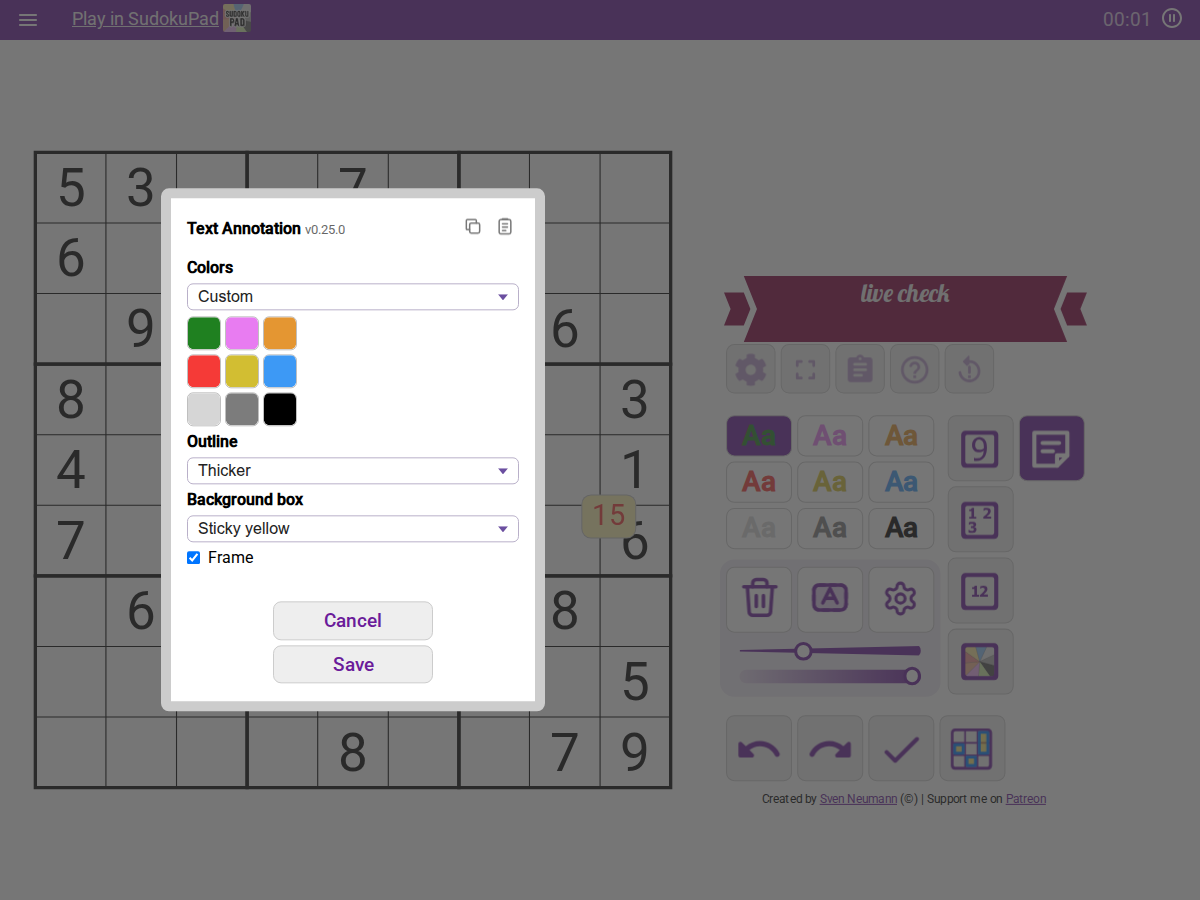
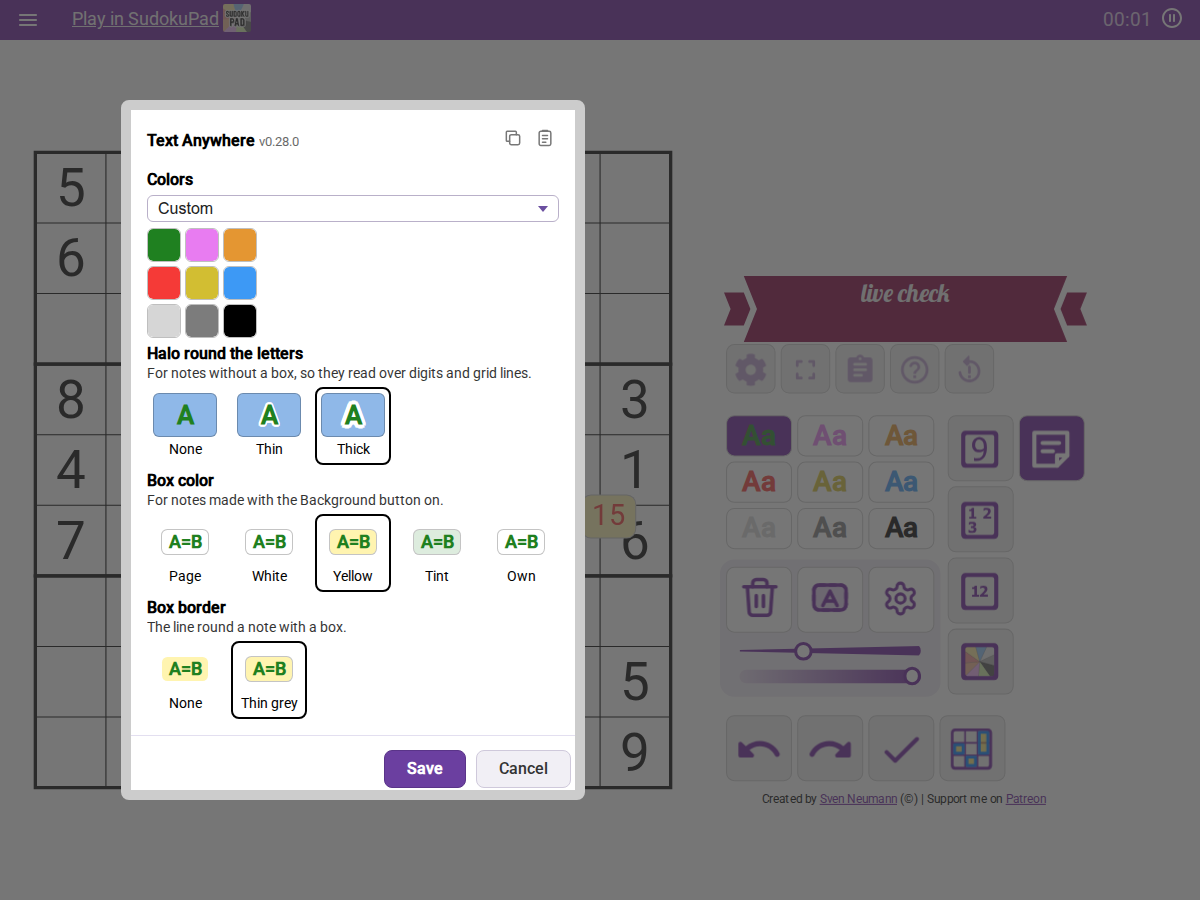
Text Anywhere settings: pick the halo, box color and box border by sample (#507)
Closes #507

Changed region(s): [[0.0925, 0.0933, 0.4933, 0.9022], [0.6783, 0.6533, 0.7092, 0.6844]]

diff --git a/draw-tool.user.js b/draw-tool.user.js
@@ -1,7 +1,7 @@
 // ==UserScript==
 // @name         SudokuPad Text Anywhere
 // @namespace    https://github.com/caneff/sudokupad-scripts
-// @version      0.27.4
+// @version      0.28.0
 // @description  Adds a Text Anywhere tool for typed notes on the board or beside it, such as cage sums, in colors of its own. Each puzzle keeps its own notes.
 // @match        https://sudokupad.app/*
 // @match        https://*.sudokupad.app/*
@@ -16,7 +16,7 @@
 (function () {
   'use strict'
 
-  const VERSION = '0.27.4'
+  const VERSION = '0.28.0'
   const TOOL_NAME = 'draw'
   const LAYER_ID = 'draw-tool-layer'
   const MIN_WIDTH = 1
@@ -243,11 +243,11 @@
   const BACKGROUND_PAD_Y = 0.15
   const BACKGROUND_RADIUS = 0.3
   // An outline is the halo round a note's letters: how far it reaches past them, as a share of the text size. The settings dialog sets one for every note: medium is
-  // Thicker, none is Off and thin is Thinner. A note's own `outline` field, saved by an earlier version, is never read.
+  // Thick, none is None and thin is Thin. A note's own `outline` field, saved by an earlier version, is never read.
   const OUTLINE_EM = { none: 0, thin: 0.07, medium: 0.14 }
   const OUTLINES = Object.keys(OUTLINE_EM)
   const DEFAULT_OUTLINE = 'medium'
-  const OUTLINE_LABELS = { none: 'Off', thin: 'Thinner', medium: 'Thicker' }
+  const OUTLINE_LABELS = { none: 'None', thin: 'Thin', medium: 'Thick' }
   const readOutline = (saved) => OUTLINES.includes(saved) ? saved : DEFAULT_OUTLINE
   // text-shadow joins with round corners, which -webkit-text-stroke does not: its miters grow spikes on A, V, W, M and 4. The ring of shadows is in em, so it follows the font size.
   const HALO_SHADOWS = 16
@@ -468,8 +468,9 @@
   const readFlag = (saved) => saved === true
   const readBackground = readFlag
   // The color behind every note with a box: a preset, or a #rrggbb color the dialog's Custom picks. The page's own color is the default.
-  const BOX_PRESETS = { page: 'Page', white: 'White', yellow: 'Sticky yellow', tint: 'Tint' }
+  const BOX_PRESETS = { page: 'Page', white: 'White', yellow: 'Yellow', tint: 'Tint' }
   const BOX_CUSTOM = 'custom'
+  const BOX_CUSTOM_LABEL = 'Own'
   const BOX_WHITE = '#ffffff'
   const DEFAULT_BOX = 'page'
   const BOX_YELLOW = '#fff4b0'
@@ -487,6 +488,29 @@
   const FRAME_COLOR = '#c4c4c4'
   const readFrame = readFlag
   const frameShadow = (on) => on ? `0 0 0 var(${PIXEL_VAR}, 1px) ${FRAME_COLOR}` : 'none'
+  // The settings dialog's three rows of samples: the halo, the box color and the box border, each button a picture of its result in the current text color.
+  const HALO_CELL_COLOR = '#8fb8e8'
+  const SAMPLE_BOX_STYLE = 'display:inline-block;padding:0.15em 0.35em;border-radius:0.3em'
+  const FRAME_CHOICES = [['off', 'None'], ['on', 'Thin grey']]
+  const SAMPLE_NOTES = {
+    outline: 'For notes without a box, so they read over digits and grid lines.',
+    box: 'For notes made with the Background button on.'
+  }
+  function renderSamplePicks ({ outline, box, custom, frame, textColor }) {
+    const pickButton = (role, value, label, pressed, sample) =>
+      `<button type="button" class="draw-tool-pick" data-role="${role}" data-value="${value}" aria-label="${escapeHtml(label)}" aria-pressed="${pressed}">${sample}<span class="draw-tool-pick-label">${escapeHtml(label)}</span></button>`
+    const row = (title, note, buttons, after = '') => `<div class="draw-tool-section-title">${title}</div><div class="draw-tool-pick-note">${note}</div><div class="draw-tool-pick-row">${buttons.join('')}</div>${after}`
+    const halo = (name) => `<span class="draw-tool-sample" data-cell style="background:${HALO_CELL_COLOR};color:${escapeHtml(textColor)};font-size:26px;text-shadow:${escapeHtml(haloShadow(name, PAGE_COLOR))}">A</span>`
+    const boxed = (fill, framed) => `<span class="draw-tool-sample" style="color:${escapeHtml(textColor)};font-size:18px"><span style="${SAMPLE_BOX_STYLE};background:${escapeHtml(fill)};box-shadow:${frameShadow(framed)}">A=B</span></span>`
+    const choice = boxChoice(box)
+    const fillFor = (id) => id === BOX_CUSTOM ? custom : boxFill(id, textColor)
+    return row('Halo round the letters', SAMPLE_NOTES.outline, OUTLINES.map((name) => pickButton('outline-pick', name, OUTLINE_LABELS[name], outline === name, halo(name)))) +
+      row('Box color', SAMPLE_NOTES.box,
+        [...Object.keys(BOX_PRESETS), BOX_CUSTOM].map((id) => pickButton('box-pick', id, BOX_PRESETS[id] ?? BOX_CUSTOM_LABEL, choice === id, boxed(fillFor(id), frame))),
+        choice === BOX_CUSTOM ? `<input type="color" class="draw-tool-swatch" data-role="box-custom" value="${escapeHtml(custom)}" aria-label="Own box color" title="Own box color">` : '') +
+      row('Box border', 'The line round a note with a box.',
+        FRAME_CHOICES.map(([value, label]) => pickButton('frame-pick', value, label, frame === (value === 'on'), boxed(fillFor(choice), value === 'on'))))
+  }
   // Board units, as a text's height.
   const TEXT_SIZE_PER_WIDTH = 2
   const TEXT_SIZE_BASE = 8
@@ -1092,7 +1116,7 @@
   /* eslint-enable no-unused-vars */
   // </lib:settings-transfer>
   if (typeof module !== 'undefined' && module.exports) {
-    module.exports = { VERSION, READERS, TOOL_NAME, toolNamesFor, readDrawing, puzzleKey, touchIndex, readIndex, saveDrawingTo, DRAWING_PREFIX, INDEX_KEY, DEFAULT_COLOR, DEFAULT_WIDTH, MIN_WIDTH, MAX_WIDTH, MIN_OPACITY, MAX_OPACITY, DEFAULT_OPACITY, drawColor, readColor, readWidth, readBackground, textSizeFor, OUTLINES, DEFAULT_OUTLINE, OUTLINE_LABELS, readOutline, haloShadow, OUTLINE_EM, itemOpacity, readOpacity, ERASE_TOLERANCE, textItem, textBox, noteBox, parseMarkdown, notesTouched, panelLooks, touchesText, placedItem, boardView, screenPoint, noteScreenBox, resizedItem, autoSized, CORNERS, reachablePoint, DRAWN_SIZE, BOX_WIDTH_EM, BOX_LINES, LINE_HEIGHT, MIN_BOX_EM, isClick, CLICK_SLOP, SUDOKUPAD_PEN_COLORS, hexColor, readDrawColors, presetOptions, presetColors, copiedSettings, pastedSettings, pasteReport, PRESET_LABELS, COLORS_KEY, WIDTH_KEY, OPACITY_KEY, OUTLINE_KEY, BACKGROUND_KEY, BOX_KEY, FRAME_KEY, BOX_PRESETS, DEFAULT_BOX, BOX_YELLOW, readBox, boxChoice, boxFill, FRAME_COLOR, readFrame, frameShadow, copiedPenColors, editedColor, colorsCss, HOLD_TO_EDIT_MS }
+    module.exports = { VERSION, READERS, TOOL_NAME, toolNamesFor, readDrawing, puzzleKey, touchIndex, readIndex, saveDrawingTo, DRAWING_PREFIX, INDEX_KEY, DEFAULT_COLOR, DEFAULT_WIDTH, MIN_WIDTH, MAX_WIDTH, MIN_OPACITY, MAX_OPACITY, DEFAULT_OPACITY, drawColor, readColor, readWidth, readBackground, textSizeFor, OUTLINES, DEFAULT_OUTLINE, OUTLINE_LABELS, readOutline, haloShadow, OUTLINE_EM, itemOpacity, readOpacity, ERASE_TOLERANCE, textItem, textBox, noteBox, parseMarkdown, notesTouched, panelLooks, touchesText, placedItem, boardView, screenPoint, noteScreenBox, resizedItem, autoSized, CORNERS, reachablePoint, DRAWN_SIZE, BOX_WIDTH_EM, BOX_LINES, LINE_HEIGHT, MIN_BOX_EM, isClick, CLICK_SLOP, SUDOKUPAD_PEN_COLORS, hexColor, readDrawColors, presetOptions, presetColors, copiedSettings, pastedSettings, pasteReport, PRESET_LABELS, COLORS_KEY, WIDTH_KEY, OPACITY_KEY, OUTLINE_KEY, BACKGROUND_KEY, BOX_KEY, FRAME_KEY, BOX_PRESETS, DEFAULT_BOX, BOX_YELLOW, readBox, boxChoice, boxFill, FRAME_COLOR, readFrame, frameShadow, renderSamplePicks, copiedPenColors, editedColor, colorsCss, HOLD_TO_EDIT_MS }
   }
   if (typeof document === 'undefined') return
 
@@ -1459,11 +1483,14 @@
   const CUSTOM_LABEL = 'Custom'
   const DIALOG_CSS = [
     `#${DIALOG_ID} .draw-tool-section-title { font-weight: 600; margin: 6px 0 0; }`,
-    `#${DIALOG_ID} .draw-tool-box-row { display: flex; align-items: center; gap: 12px; margin: 6px 0; }`,
-    `#${DIALOG_ID} .draw-tool-box-row .draw-tool-color-choice { flex: 1 1 0; width: auto; min-width: 0; }`,
-    `#${DIALOG_ID} .draw-tool-frame-row { display: flex; align-items: center; justify-content: flex-start; gap: 8px; margin: 6px 0; cursor: pointer; }`,
-    // SudokuPad stretches a dialog's inputs across the row, which left the box alone in the middle and the word at the far edge.
-    `#${DIALOG_ID} .draw-tool-frame-row input { flex: none; width: auto; min-width: 0; margin: 0; }`,
+    `#${DIALOG_ID} .draw-tool-pick-note { margin: 2px 0 0; font-size: 0.85em; opacity: 0.8; }`,
+    `#${DIALOG_ID} .draw-tool-pick-row { display: flex; flex-wrap: wrap; gap: 8px; margin: 6px 0; }`,
+    `#${DIALOG_ID} .draw-tool-pick { box-sizing: border-box; display: flex; flex-direction: column; align-items: center; gap: 4px; width: auto; height: auto; min-width: 0; margin: 0; padding: 4px 4px 6px; line-height: 1.2; border: 2px solid transparent; border-radius: 8px; background: none; color: inherit; font: inherit; cursor: pointer; }`,
+    `#${DIALOG_ID} .draw-tool-pick[aria-pressed="true"] { border-color: #000; }`,
+    `#${DIALOG_ID} .draw-tool-sample { box-sizing: border-box; display: flex; align-items: center; justify-content: center; width: 64px; height: 44px; border-radius: 6px; font-weight: 600; line-height: 1; }`,
+    `#${DIALOG_ID} .draw-tool-sample[data-cell] { border: 1px solid rgb(0 0 0 / .25); }`,
+    `#${DIALOG_ID} .draw-tool-pick-label { font-size: 0.85em; }`,
+    `#${DIALOG_ID} input.draw-tool-swatch[data-role="box-custom"] { display: block; margin: 0 0 6px; }`,
     colorBlockCss(CLASS_PREFIX, `#${DIALOG_ID}`)
   ].join('\n')
 
@@ -1515,15 +1542,10 @@
     if (!box) return
     const draw = () => {
       const options = [{ value: '', label: CUSTOM_LABEL, selected: !chosen }, ...presetOptions(pages.length).map((id) => ({ value: id, label: PRESET_LABELS[id], selected: id === chosen }))]
-      const boxOptions = [...Object.entries(BOX_PRESETS), [BOX_CUSTOM, CUSTOM_LABEL]].map(([id, label]) => `<option value="${id}"${boxChoice(draftBox) === id ? ' selected' : ''}>${label}</option>`).join('')
       box.innerHTML = '<div class="draw-tool-section-title">Colors</div>' +
         renderColorBlock({ prefix: CLASS_PREFIX, label: 'Text color preset', options, swatches: COLOR_NUMBERS.map((n) => ({ key: String(n), value: draft[n], label: `Text color ${n}` })) }) +
         (paletteNote ? `<div data-role="palette-note">${paletteNote}.</div>` : '') +
-        '<div class="draw-tool-section-title">Outline</div>' +
-        `<div class="draw-tool-box-row"><select class="draw-tool-color-choice" data-role="outline" aria-label="Outline">${OUTLINES.map((name) => `<option value="${name}"${draftOutline === name ? ' selected' : ''}>${OUTLINE_LABELS[name]}</option>`).join('')}</select></div>` +
-        '<div class="draw-tool-section-title">Background box</div>' +
-        `<div class="draw-tool-box-row"><select class="draw-tool-color-choice" data-role="box-choice" aria-label="Background box color">${boxOptions}</select>${boxChoice(draftBox) === BOX_CUSTOM ? `<input type="color" class="draw-tool-swatch" data-role="box-custom" value="${draftCustom}" aria-label="Custom background box color" title="Custom background box color">` : ''}</div>` +
-        `<label class="draw-tool-frame-row"><input type="checkbox" data-role="frame"${draftFrame ? ' checked' : ''}> Frame</label>`
+        renderSamplePicks({ outline: draftOutline, box: draftBox, custom: draftCustom, frame: draftFrame, textColor: itemColor(color) })
     }
     draw()
     box.addEventListener('change', (event) => {
@@ -1535,21 +1557,23 @@
           colorsEdited = true
         }
         draw()
-      } else if (target.matches('[data-role="outline"]')) {
-        draftOutline = readOutline(target.value)
-      } else if (target.matches('[data-role="box-choice"]')) {
-        draftBox = target.value === BOX_CUSTOM ? draftCustom : target.value
-        draw()
       } else if (target.matches('[data-role="box-custom"]')) {
         draftCustom = draftBox = hexColor(target.value)
-      } else if (target.matches('[data-role="frame"]')) {
-        draftFrame = target.checked
       } else if (target.matches('input[data-role="swatch"]')) {
         draft = editedColor(draft, Number(target.dataset.key), target.value)
         chosen = null
         colorsEdited = true
         draw()
       }
+    })
+    box.addEventListener('click', (event) => {
+      const button = event.target.closest('button[data-role$="-pick"]')
+      if (!button) return
+      const { role, value } = button.dataset
+      if (role === 'outline-pick') draftOutline = readOutline(value)
+      else if (role === 'box-pick') draftBox = value === BOX_CUSTOM ? draftCustom : value
+      else draftFrame = value === 'on'
+      draw()
     })
     wireCopyPaste(box.closest('.dialog'), { copied: () => copiedSettings(Framework), readers: READERS }, (values) => {
       applyPasted(values)

diff --git a/test/draw-tool.test.js b/test/draw-tool.test.js
@@ -4,7 +4,7 @@ const assert = require('node:assert/strict')
 const fs = require('node:fs')
 const path = require('node:path')
 const { headerVersion } = require('./header-version.js')
-const { VERSION, TOOL_NAME, toolNamesFor, readDrawing, puzzleKey, touchIndex, readIndex, saveDrawingTo, DRAWING_PREFIX, INDEX_KEY, DEFAULT_COLOR, DEFAULT_WIDTH, MIN_WIDTH, MAX_WIDTH, DEFAULT_OPACITY, drawColor, readColor, readWidth, readBackground, textSizeFor, itemOpacity, ERASE_TOLERANCE, textItem, textBox, noteBox, parseMarkdown, notesTouched, panelLooks, touchesText, placedItem, boardView, screenPoint, resizedItem, autoSized, CORNERS, reachablePoint, noteScreenBox, DRAWN_SIZE, isClick, CLICK_SLOP, SUDOKUPAD_PEN_COLORS, hexColor, readDrawColors, copiedPenColors, editedColor, colorsCss, presetOptions, presetColors, copiedSettings, pastedSettings, READERS, PRESET_LABELS, COLORS_KEY, WIDTH_KEY, OPACITY_KEY, OUTLINE_KEY, MIN_OPACITY, MAX_OPACITY, readOpacity, OUTLINES, DEFAULT_OUTLINE, OUTLINE_LABELS, readOutline, haloShadow, OUTLINE_EM, BOX_KEY, FRAME_KEY, BOX_PRESETS, DEFAULT_BOX, readBox, boxChoice, boxFill, readFrame, frameShadow, FRAME_COLOR, BOX_YELLOW } = require('../draw-tool.user.js')
+const { VERSION, TOOL_NAME, toolNamesFor, readDrawing, puzzleKey, touchIndex, readIndex, saveDrawingTo, DRAWING_PREFIX, INDEX_KEY, DEFAULT_COLOR, DEFAULT_WIDTH, MIN_WIDTH, MAX_WIDTH, DEFAULT_OPACITY, drawColor, readColor, readWidth, readBackground, textSizeFor, itemOpacity, ERASE_TOLERANCE, textItem, textBox, noteBox, parseMarkdown, notesTouched, panelLooks, touchesText, placedItem, boardView, screenPoint, resizedItem, autoSized, CORNERS, reachablePoint, noteScreenBox, DRAWN_SIZE, isClick, CLICK_SLOP, SUDOKUPAD_PEN_COLORS, hexColor, readDrawColors, copiedPenColors, editedColor, colorsCss, presetOptions, presetColors, copiedSettings, pastedSettings, READERS, PRESET_LABELS, COLORS_KEY, WIDTH_KEY, OPACITY_KEY, OUTLINE_KEY, MIN_OPACITY, MAX_OPACITY, readOpacity, OUTLINES, DEFAULT_OUTLINE, OUTLINE_LABELS, readOutline, haloShadow, OUTLINE_EM, BOX_KEY, FRAME_KEY, BOX_PRESETS, DEFAULT_BOX, readBox, boxChoice, boxFill, readFrame, frameShadow, FRAME_COLOR, BOX_YELLOW, renderSamplePicks } = require('../draw-tool.user.js')
 const readPaste = (text) => pastedSettings(text, READERS)
 
 // The parts of an Event toolNamesFor reads: eventPhase is 0 once the browser has finished dispatching it.
@@ -453,10 +453,10 @@ test('a new note carries the transparency it is given, and 100 when none is', ()
   assert.equal(textItem([0, 0], 'a', 1, 20).opacity, 100)
 })
 
-test('an outline is none, thin or medium, Off, Thinner or Thicker in the dialog, and anything else reads as medium', () => {
+test('an outline is none, thin or medium, None, Thin or Thick in the dialog, and anything else reads as medium', () => {
   assert.deepEqual(OUTLINES, ['none', 'thin', 'medium'])
   assert.equal(DEFAULT_OUTLINE, 'medium')
-  assert.deepEqual(OUTLINES.map((name) => OUTLINE_LABELS[name]), ['Off', 'Thinner', 'Thicker'])
+  assert.deepEqual(OUTLINES.map((name) => OUTLINE_LABELS[name]), ['None', 'Thin', 'Thick'])
   for (const saved of [null, undefined, 'huge', 3, {}]) assert.equal(readOutline(saved), 'medium', JSON.stringify(saved))
   for (const saved of OUTLINES) assert.equal(readOutline(saved), saved)
 })
@@ -671,4 +671,72 @@ test('a note\'s box on the screen is its text\'s box and its padding at the boar
   assert.deepEqual(near(noteScreenBox({ ...pinned, bg: true }, map, 'medium')), { left: 156, right: 264, top: 91, bottom: 149 })
   const { at, ...rest } = pinned
   assert.deepEqual(near(noteScreenBox({ ...rest, fixed: [300, 400] }, map, 'medium')), { left: 254.4, right: 345.6, top: 371.4, bottom: 428.6 })
+})
+
+// The dialog's three sample rows: the buttons of one row, in order, each as { role, value, label, pressed, style }.
+const pick = (html, role) => [...html.matchAll(new RegExp(`<button[^>]*data-role="${role}"[^>]*>`, 'g'))].map(([tag]) => ({
+  value: tag.match(/data-value="([^"]*)"/)[1],
+  label: tag.match(/aria-label="([^"]*)"/)[1],
+  pressed: tag.match(/aria-pressed="([^"]*)"/)[1]
+}))
+const samples = (over = {}) => renderSamplePicks({ outline: 'medium', box: 'page', custom: '#ffffff', frame: false, textColor: 'rgb(1, 2, 3)', ...over })
+
+test('the sample rows are three halo buttons, five box buttons and two border buttons', () => {
+  const html = samples()
+  assert.deepEqual(pick(html, 'outline-pick').map((b) => [b.value, b.label]), [['none', 'None'], ['thin', 'Thin'], ['medium', 'Thick']])
+  assert.deepEqual(pick(html, 'box-pick').map((b) => [b.value, b.label]), [['page', 'Page'], ['white', 'White'], ['yellow', 'Yellow'], ['tint', 'Tint'], ['custom', 'Own']])
+  assert.deepEqual(pick(html, 'frame-pick').map((b) => [b.value, b.label]), [['off', 'None'], ['on', 'Thin grey']])
+})
+
+test('exactly the picked button of each row is pressed', () => {
+  const pressed = (html, role) => pick(html, role).filter((b) => b.pressed === 'true').map((b) => b.value)
+  const html = samples({ outline: 'thin', box: 'tint', frame: true })
+  assert.deepEqual([pressed(html, 'outline-pick'), pressed(html, 'box-pick'), pressed(html, 'frame-pick')], [['thin'], ['tint'], ['on']])
+  const own = samples({ box: '#123456' })
+  assert.deepEqual(pressed(own, 'box-pick'), ['custom'])
+  assert.deepEqual(pressed(samples(), 'frame-pick'), ['off'])
+})
+
+test('each halo sample is one letter in the text color with its own reach of halo', () => {
+  const html = samples()
+  for (const name of OUTLINES) {
+    const sample = html.match(new RegExp(`data-role="outline-pick" data-value="${name}"[^>]*>(.*?)</button>`))[1]
+    assert.equal(sample.includes(`text-shadow:${haloShadow(name, 'var(--body-bg, #fff)')}`), true, name)
+    assert.equal(sample.includes('color:rgb(1, 2, 3)'), true, name)
+    assert.match(sample, />A</)
+  }
+  assert.equal(haloShadow('none', 'x'), 'none')
+})
+
+test('each box sample is "A=B" in the text color on its box color, Tint following the text color and Own the custom color', () => {
+  const html = samples({ custom: '#abcdef' })
+  const sample = (value) => html.match(new RegExp(`data-role="box-pick" data-value="${value}"[^>]*>(.*?)</button>`))[1]
+  assert.equal(sample('white').includes(`background:${boxFill('white', '')}`), true)
+  assert.equal(sample('yellow').includes(`background:${BOX_YELLOW}`), true)
+  assert.equal(sample('tint').includes(`background:${boxFill('tint', 'rgb(1, 2, 3)')}`), true)
+  assert.equal(sample('custom').includes('background:#abcdef'), true)
+  for (const value of ['page', 'white', 'yellow', 'tint', 'custom']) {
+    assert.match(sample(value), />A=B</, value)
+    assert.equal(sample(value).includes('color:rgb(1, 2, 3)'), true, value)
+  }
+})
+
+test('the box samples carry the current border, and the border samples show none and thin grey', () => {
+  const edge = (html, role, value) => html.match(new RegExp(`data-role="${role}" data-value="${value}"[^>]*>(.*?)</button>`))[1]
+  assert.equal(edge(samples({ frame: true }), 'box-pick', 'white').includes(frameShadow(true)), true)
+  assert.equal(edge(samples({ frame: false }), 'box-pick', 'white').includes(frameShadow(false)), true)
+  assert.equal(edge(samples(), 'frame-pick', 'on').includes(frameShadow(true)), true)
+  assert.equal(edge(samples(), 'frame-pick', 'off').includes(frameShadow(false)), true)
+})
+
+test('the Own color input shows under the row only while Own is picked', () => {
+  assert.equal(samples({ box: '#123456', custom: '#123456' }).includes('data-role="box-custom"'), true)
+  assert.equal(samples({ box: '#123456', custom: '#123456' }).includes('value="#123456"'), true)
+  assert.equal(samples({ box: 'white' }).includes('data-role="box-custom"'), false)
+})
+
+test('each sample row has the ticket\'s sub-line', () => {
+  const html = samples()
+  assert.equal(html.includes('For notes without a box, so they read over digits and grid lines.'), true)
+  assert.equal(html.includes('For notes made with the Background button on.'), true)
 })

diff --git a/site/draw-tool.html b/site/draw-tool.html
@@ -42,7 +42,7 @@
     <li><strong>Select and move</strong> <p>Click a note or drag a box round several; drag to move, arrow keys to nudge.</p></li>
     <li><strong>Erase</strong> <p>Right-click a note, or press Delete.</p></li>
     <li><strong>Kept per puzzle</strong> <p>Notes survive a reload, for your last 50 puzzles.</p></li>
-    <li><strong>Settings</strong> <p>Color presets, the box color, the outline, a frame round boxes, and Copy and Paste to another browser.</p></li>
+    <li><strong>Settings</strong> <p>Color presets, the halo round the letters, the box color and the box border, each picked from a row of small samples, and Copy and Paste to another browser.</p></li>
   </ul>
 
   <h2>The Text Anywhere panel</h2>

diff --git a/GLOSSARY.md b/GLOSSARY.md
@@ -214,10 +214,10 @@
   line high, with diagonal resize cursors; a double-click on one removes the stored `box`, so the note goes back to auto size.
 - **Size slider** — Text Anywhere's first slider, under its controls row, drawn as the wedge (thin to thick) of the shared panel (`lib/panel.js`, as Pen Tool Extras' Thickness). It runs over widths 1 to 16 in steps of 0.5 (text size = 2 x width + 8, default width 6, size 20) and sets the next text's size, saved under `DrawTool_width` as the width and kept as it is, off any fixed list of sizes. It never changes a text already made, except the open note and the **selected** ones: while texts are selected it shows the first one's size and a move sets all of theirs, leaving the next text's alone.
 - **Transparency slider** — Text Anywhere's second slider, under the **Size slider**, drawn as the fade (faint to solid), over the same range and steps as Pen Tool Extras' Opacity (20 to 100 percent in steps of 5, default 100). It sets a text's `opacity`, the next text's saved under `DrawTool_opacity`, by the same rules as the **Size slider**. The opacity is the note element's own `opacity`, so it fades the letters, the outline, the background box and its frame together; the selection outline and handles sit outside the note and stay solid.
-- **Outline setting** — the settings dialog's Outline choice: Off, Thinner or Thicker (the default), the reach of every note's **halo** (0, 0.07 or 0.14 of its text size). It is global like the box color and Frame, applied on Save, saved under `DrawTool_outline` (the ids `none`, `thin`, `medium`; anything else reads as Thicker) and carried by Copy and Paste settings. A note's own `outline` field, saved by an earlier version, is ignored and left as saved.
+- **Outline setting** — the settings dialog's Halo round the letters row, three sample buttons, None, Thin or Thick (the default), each a coloured cell with one letter in the text colour drawn with that reach of halo; the reach of every note's **halo** (0, 0.07 or 0.14 of its text size). It is global like the box color and Frame, applied on Save, saved under `DrawTool_outline` (the ids `none`, `thin`, `medium`; anything else reads as Thicker) and carried by Copy and Paste settings. A note's own `outline` field, saved by an earlier version, is ignored and left as saved.
 - **Background** — the button between Clear all and the gear, on or off, and a setting for the NEXT text: a text made while it is on stores `bg: true` and is drawn with a rounded box behind it (the **background box color**'s), and one made while it is off has none; a saved text with no `bg` has none. The state is remembered under `DrawTool_background`. Pressing it never changes a text already made, except the one open in the text box and the **selected** ones: while texts are selected it shows theirs (neither on nor off when they differ: a dashed ring, `aria-pressed="mixed"`) and turns them all on, or all off when all have one.
-- **background box color** — the setting, in Text Anywhere's settings dialog, for the color of the box behind every note that has one: Page (the default, `--body-bg`), White, Sticky yellow (`#fff4b0`), Tint (15% of each note's own color over the page color) or Custom (a #rrggbb color from a picker). Global: it recolors every boxed note, old and new, since a note stores only `bg: true`. Saved under `DrawTool_box` as the preset's id or the hex color; a value that is not one reads as Page. The **halo** stays the page color.
-- **frame** — the checkbox next to the **background box color**: on, every boxed note gets a 1 screen pixel `#c4c4c4` ring round its box, drawn as a `box-shadow` so it takes no room; a note with no box gets none. Global, off by default, saved under `DrawTool_frame` (only `true` is on). Copy and Paste settings carry it and the box color.
+- **background box color** — the setting, in Text Anywhere's settings dialog (its Box color row), for the color of the box behind every note that has one: five sample buttons, each a short "A=B" note in the text colour on that box, Page (the default, `--body-bg`), White, Yellow (`#fff4b0`), Tint (15% of each note's own color over the page color) or Own (a #rrggbb color from a picker shown under the row while Own is picked). Global: it recolors every boxed note, old and new, since a note stores only `bg: true`. Saved under `DrawTool_box` as the preset's id or the hex color; a value that is not one reads as Page. The **halo** stays the page color.
+- **frame** — the settings dialog's Box border row, two sample buttons, None and Thin grey, each a boxed note: Thin grey, every boxed note gets a 1 screen pixel `#c4c4c4` ring round its box, drawn as a `box-shadow` so it takes no room; a note with no box gets none. Global, off by default, saved under `DrawTool_frame` (only `true` is on). Copy and Paste settings carry it and the box color.
 - **erase** — Text Anywhere's right click: the text the pointer is near is removed whole. Clear all (the trash button) erases every note, after asking, while nothing is selected; while texts are selected it deletes only them, without asking, as the Delete and Backspace keys do.
 - **move** — Text Anywhere's left-drag that starts on a text (the topmost): the **selection** follows the pointer, after the text is selected alone if it was not selected, and each text's stored place changes once, on release, pinned or fixed by where it is dropped. It stops at the last point inside the window and clear of the controls. A click with no drag selects the text. A left-drag that starts on a **resize handle** resizes the note and never moves it.
 - **nudge** — an arrow key pressed with notes **selected** and no **text box** open: it moves them 1 screen pixel, or 10 with Shift, and no arrow key reaches
